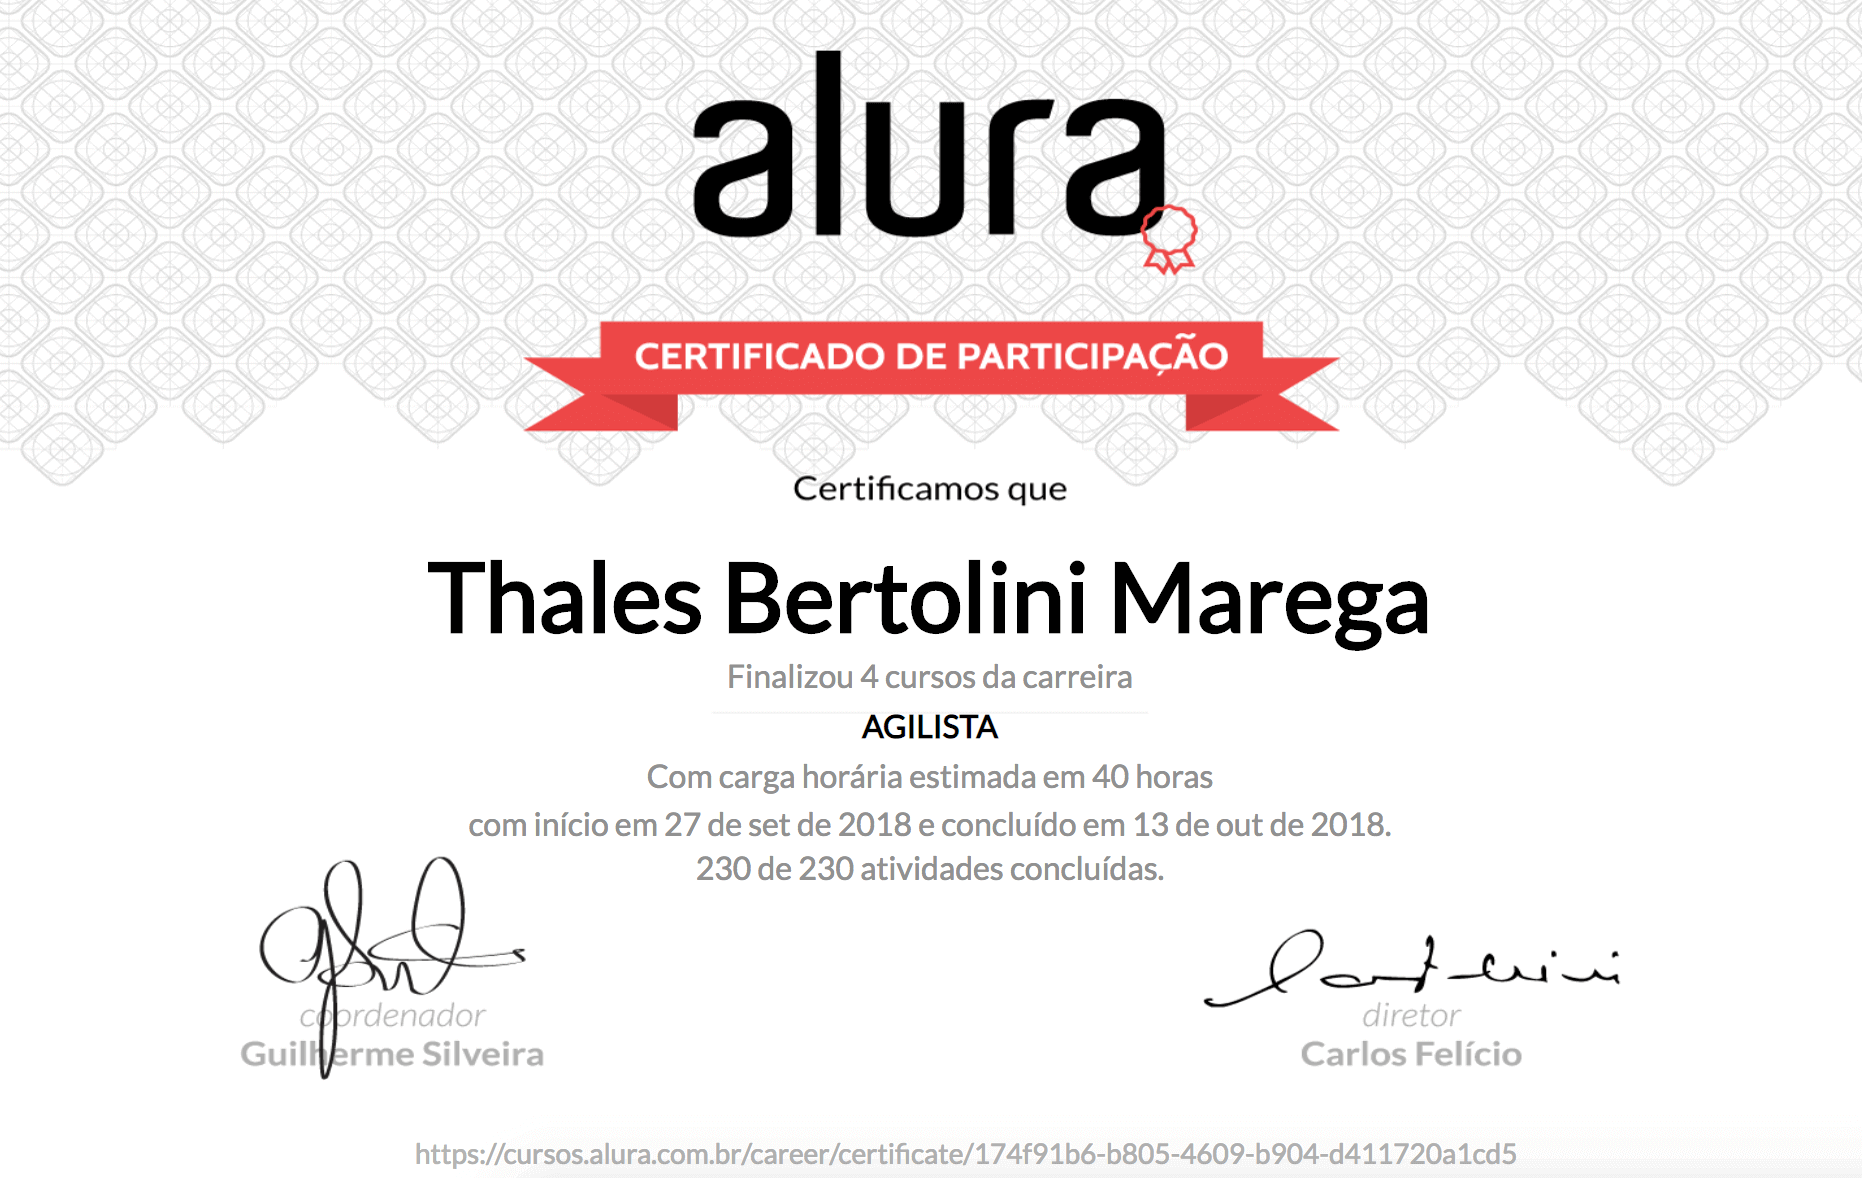
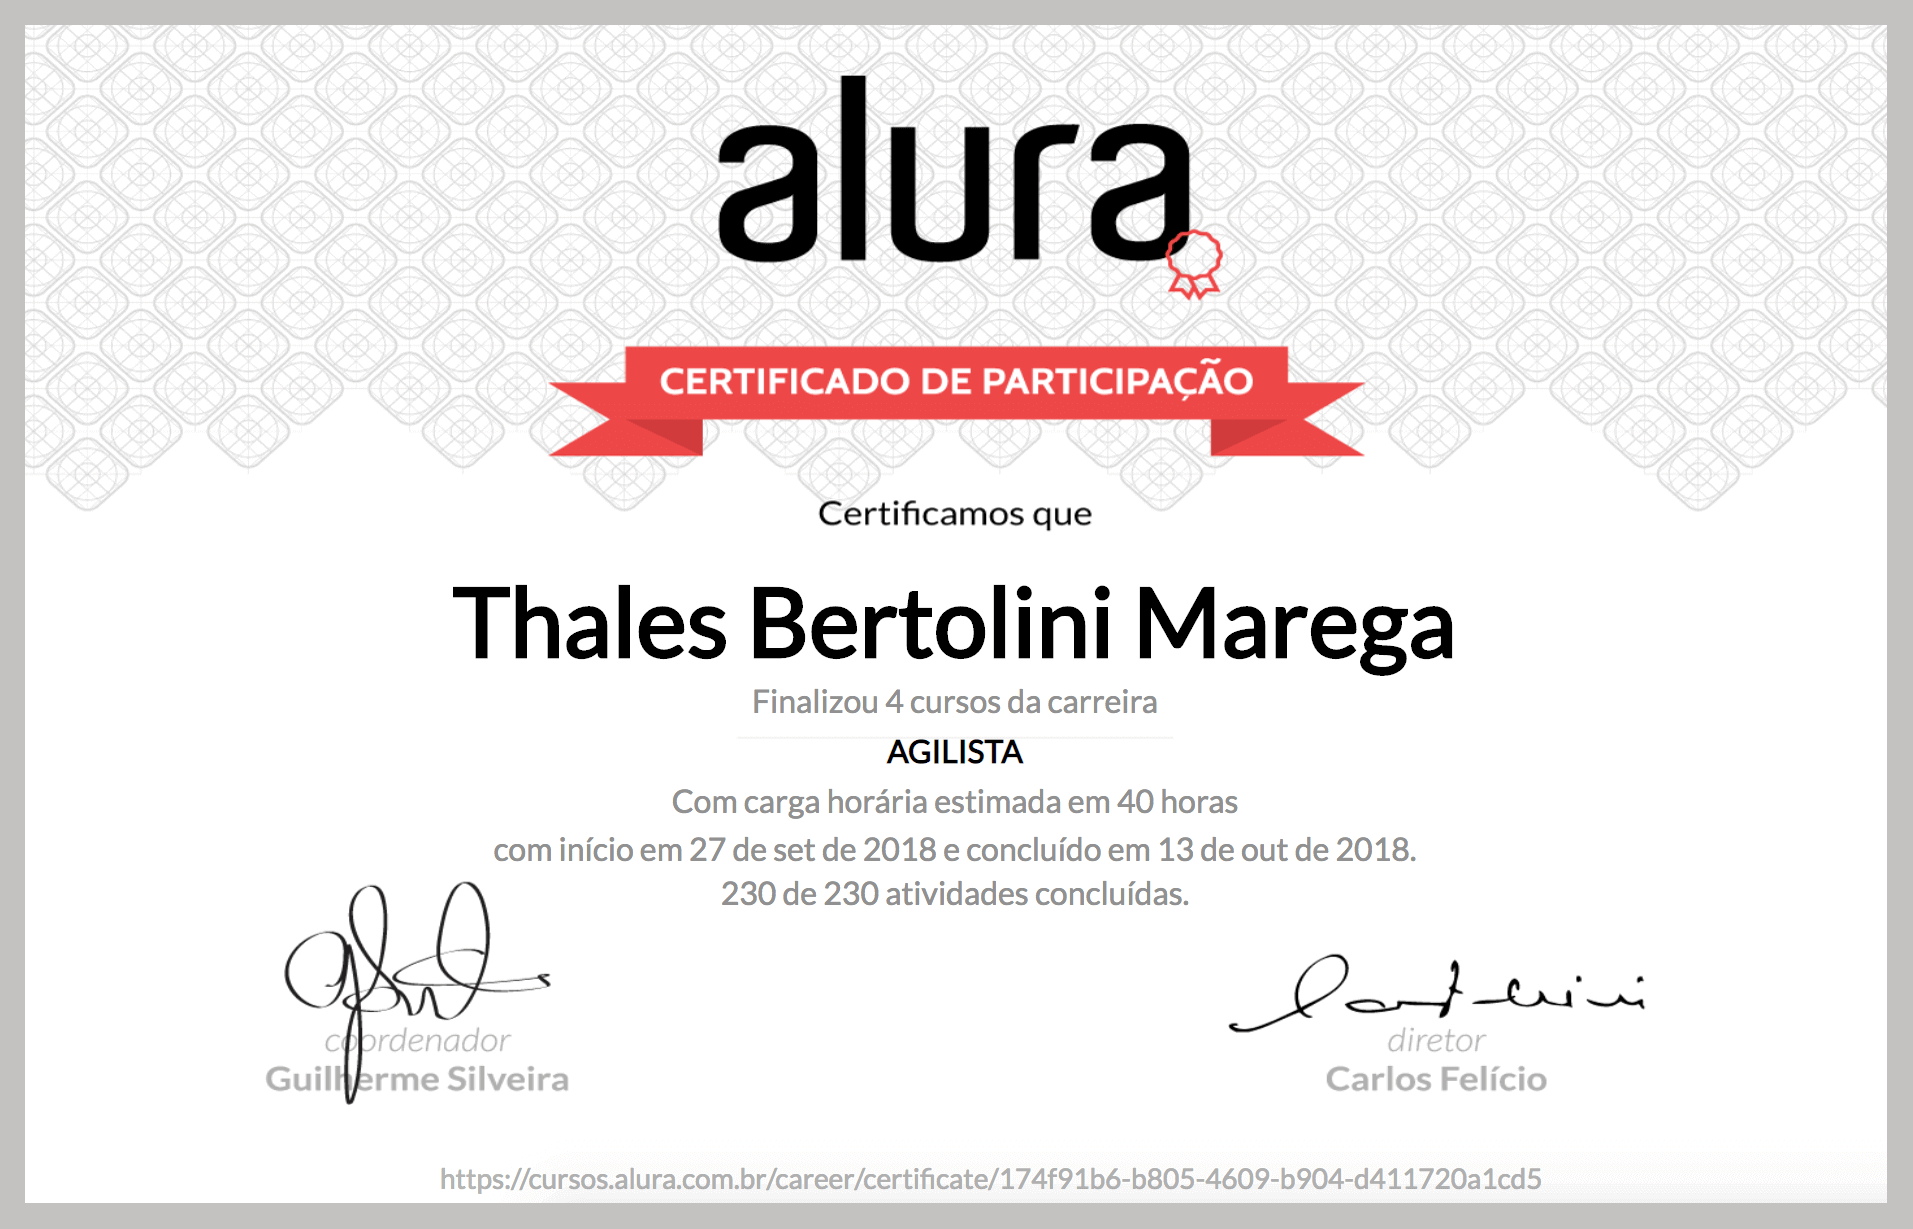
adicionado novo certificado + alterado imagens dos certificados

Changed region(s): [[0.0, 0.0, 1.0, 1.0], [0.1246, 0.4584, 0.7787, 0.9168], [0.623, 0.764, 0.8722, 0.9168]]

diff --git a/index.html b/index.html
@@ -901,6 +901,34 @@
         </div>
     </div>
 
+    <!-- ########################## GITHUB ########################## -->
+    <div class="portfolio-modal modal fade" id="dialogGithub" tabindex="-1" role="dialog" aria-hidden="true">
+        <div class="modal-dialog">
+            <div class="modal-content">
+                <div class="close-modal" data-dismiss="modal">
+                    <div class="lr">
+                        <div class="rl">
+                        </div>
+                    </div>
+                </div>
+                <div class="container">
+                    <div class="row text-center">
+                        <div class="col-lg-8 col-lg-offset-2">
+                            <div class="modal-body">
+                                <div class="row">
+                                    <div class="col-md-14">
+                                        <img class="img-responsive img-centered" src="img/certificados/alura_github.png" alt=""/>
+                                    </div>
+                                </div>
+                                <button type="button" class="btn btn-primary" data-dismiss="modal"><i class="fa fa-times"></i> Fechar Certificado</button>
+                            </div>
+                        </div>
+                    </div>
+                </div>
+            </div>
+        </div>
+    </div>
+
     <script src="vendor/jquery/jquery.min.js"></script>
     <script src="vendor/jquery/jquery.easing.min.js"></script>
     <script src="vendor/bootstrap/js/bootstrap.min.js"></script>

diff --git a/html/certificados.html b/html/certificados.html
@@ -36,6 +36,9 @@
             </span>
             <h4 class="service-heading">Outros</h4>
             
+            <a href="#dialogGithub" class="portfolio-link" data-toggle="modal">
+                <p class="text-muted">Github</p>
+            </a>
             <a href="#dialogAgilista" class="portfolio-link" data-toggle="modal">
                 <p class="text-muted">Agislista</p>
             </a>
